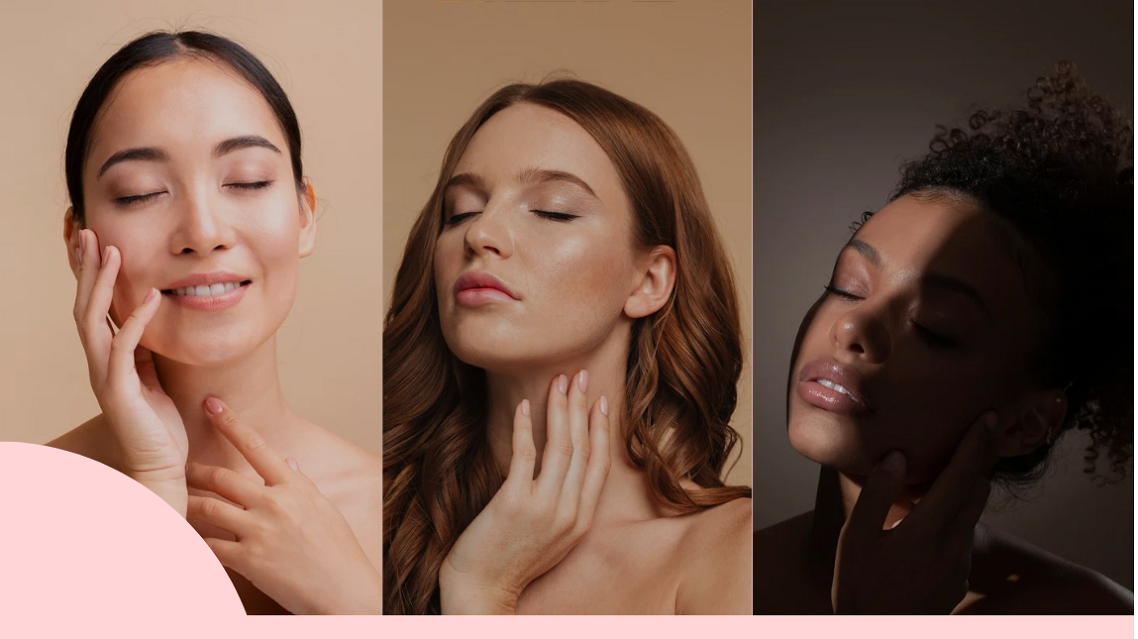
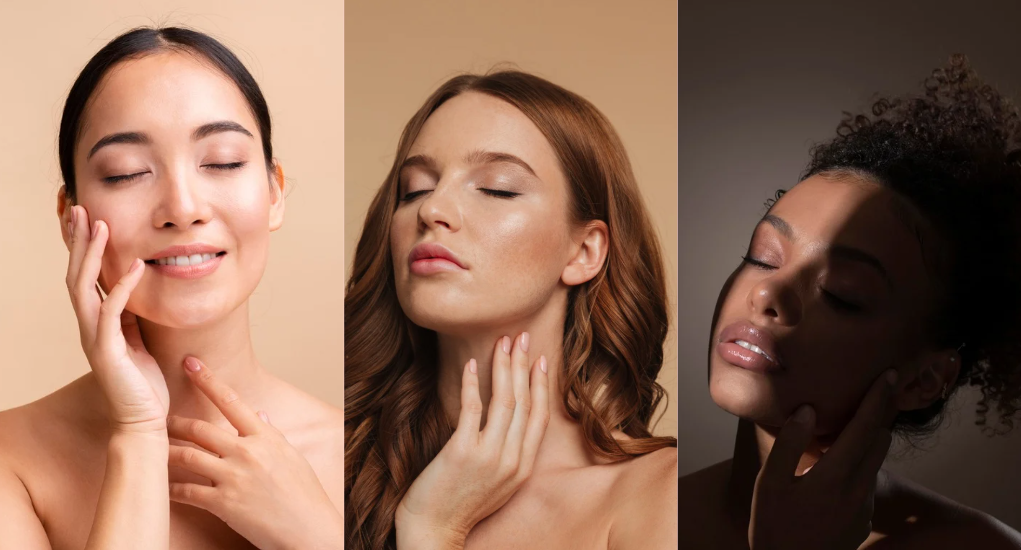
fundo trocado

diff --git a/index.html b/index.html
@@ -48,7 +48,7 @@
         </div>
         <h1 id="h1_servicos" data-aos="fade-right" data-aos-duration="1000">Serviços</h1>
         <div id="div_servicos"><a href="servicos.html">
-                <div id="servicos_inicio" data-aos="fade-right" data-aos-duration="1000">
+                <div id="servicos_inicio" data-aos="fade-right" data-aos-duration="600">
                     <div class="tamanho_da_caixa"><img src="img/microagulhamento.jfif" alt="Microagulhamento">
                         <div class="servicos_inicio_descricao">Microagulhamento</div>
                     </div>
@@ -101,25 +101,25 @@
 
 
 
-        <h1 id="h1_clinica" data-aos="fade-right" data-aos-duration="2100">Conheça nossa clínica:</h1>
-        <div id="clinica" data-aos="fade-right" data-aos-duration="2100">
+        <h1 id="h1_clinica" data-aos="fade-right" data-aos-duration="1000">Conheça nossa clínica:</h1>
+        <div id="clinica" data-aos="fade-right" data-aos-duration="1000">
 
             <div class="imagens_clinica">
-                <img src="img/foto1.jfif" alt="Imagem da clinica" id="foto1" data-aos="zoom-in" data-aos-duration="2000"
+                <img src="img/foto1.jfif" alt="Imagem da clinica" id="foto1" data-aos="zoom-in" data-aos-duration="1000"
                     class="img_clinica">
-                <img src="img/foto2.jfif" alt="Imagem da clinica" id="foto2" data-aos="zoom-in" data-aos-duration="2000"
+                <img src="img/foto2.jfif" alt="Imagem da clinica" id="foto2" data-aos="zoom-in" data-aos-duration="1000"
                     class="img_clinica_foto2">
-                <img src="img/foto3.jpg" alt="Imagem da clinica" id="foto3" data-aos="zoom-in" data-aos-duration="2000"
+                <img src="img/foto3.jpg" alt="Imagem da clinica" id="foto3" data-aos="zoom-in" data-aos-duration="1000"
                     class="img_clinica_foto2">
-                <img src="img/foto4.jpg" alt="Imagem da clinica" id="foto4" data-aos="zoom-in" data-aos-duration="2000"
+                <img src="img/foto4.jpg" alt="Imagem da clinica" id="foto4" data-aos="zoom-in" data-aos-duration="1000"
                     class="img_clinica_foto2">
-                <img src="img/foto5.jfif" alt="Imagem da clinica" id="foto5" data-aos="zoom-in" data-aos-duration="2000"
+                <img src="img/foto5.jfif" alt="Imagem da clinica" id="foto5" data-aos="zoom-in" data-aos-duration="1000"
                     class="img_clinica">
             </div>
         </div>
 
 
-        <section id="feedback-section" data-aos="zoom-in-up" data-aos-duration="2500">
+        <section id="feedback-section" data-aos="zoom-in-up" data-aos-duration="1000">
             <h3 class="feedback-subtitle">Nossos Clientes</h3>
             <h2 class="feedback-title">O que dizem sobre nós</h2>
 

diff --git a/script.js b/script.js
@@ -30,4 +30,4 @@ window.addEventListener('scroll', () => {
         }
 
         showSlide(index);
-        setInterval(nextSlide, 7000); // troca a cada 7 segundos
+        setInterval(nextSlide, 6000); // troca a cada 6 segundos

diff --git a/contatos.css b/contatos.css
@@ -289,6 +289,9 @@ nav {
     .card p{
         font-size: 0.975rem;
     }
+    .cards-grid{
+        justify-items: center;
+    }
 }
 
 .card p {
